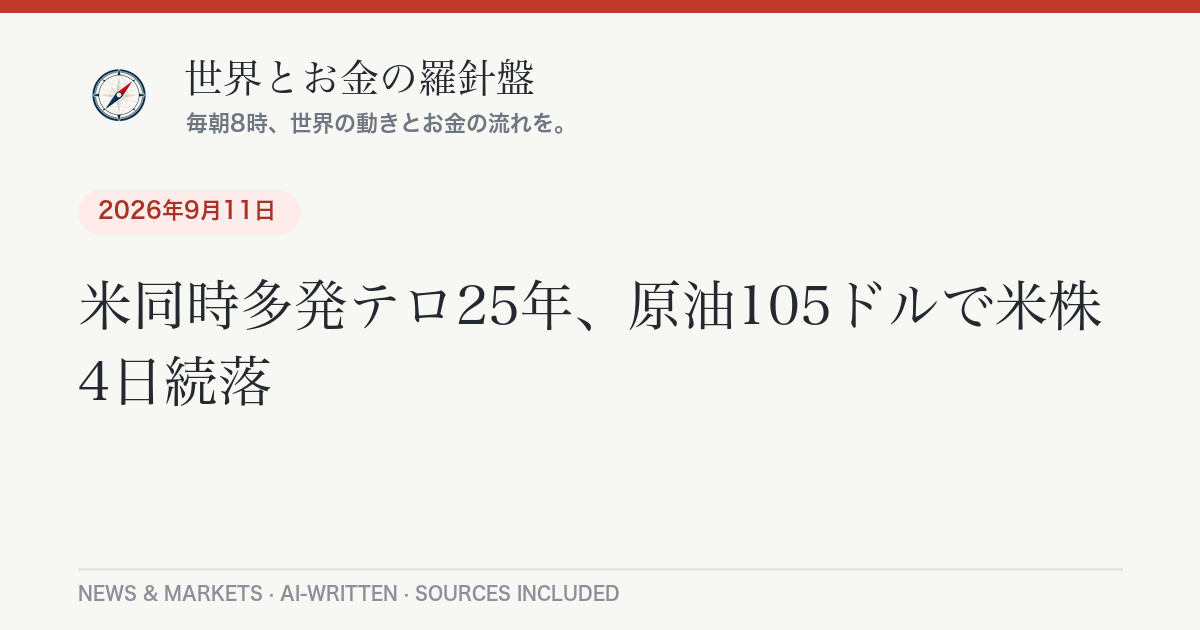
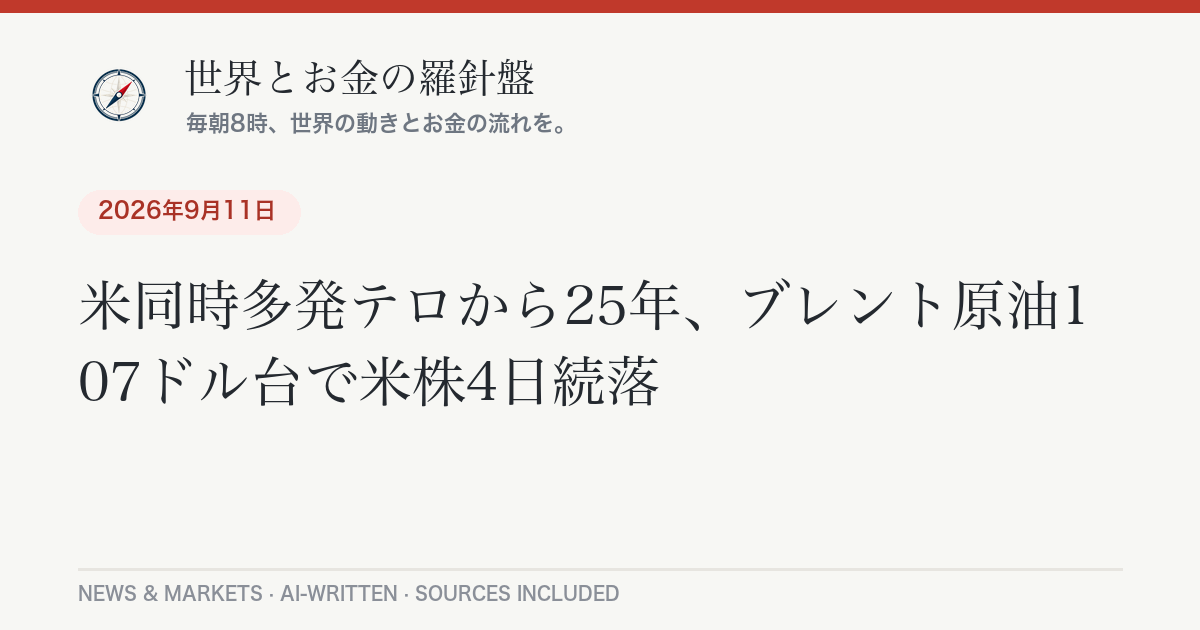
Daily briefing 2026-09-13

Changed region(s): [[0.37, 0.4222, 0.925, 0.5429], [0.0617, 0.573, 0.555, 0.6635]]

diff --git a/_posts/2026-09-13-daily-briefing.md b/_posts/2026-09-13-daily-briefing.md
@@ -1,0 +1,99 @@
+---
+layout: post
+lang: ja
+title: "フーシ派が紅海要衝を制圧、原油一時100ドル超に｜9月13日のニュースとお金"
+date: 2026-09-13 07:39:24 +0900
+categories: [ニュース, 経済]
+headline: "フーシ派が紅海要衝を制圧、原油一時100ドル超に"
+permalink: /2026/09/13/daily-briefing/
+---
+
+## 今日のポイント
+
+イエメンの親イラン武装組織フーシ派が、紅海の出入口にあたるバベルマンデブ海峡沿岸の要衝（モカ港、ペリム島）を相次いで制圧しました。サウジアラビアも主要パイプラインへのドローン攻撃で稼働停止に追い込まれ、原油と欧州天然ガスが急騰しています。これを受けて欧米の中央銀行はインフレ対応を迫られ、来週のFRB（米連邦準備制度理事会）会合への注目も一段と高まっています。
+
+## 今日の羅針盤（Compass Insight）
+
+今日の材料を貫くテーマは「供給の混乱が物価を押し上げ、中央銀行の手を縛る」という構図です。紅海とホルムズ海峡という二つの海上輸送路が同時に不安定化したことで、原油だけでなく欧州の天然ガス価格まで[2023年初来の高値圏](https://parameter.io/european-gas-prices-soar-to-2023-peaks-amid-middle-east-supply-crisis/)に跳ね上がりました。家計への影響で言えば、ガソリン代や電気・ガス代といった「生活コストの上振れ」がまず来る経路です。日本は原油・LNGの多くを輸入に頼るため、円相場の動き次第で輸入コストの上振れがさらに増幅される可能性があります。
+
+短期的には、来週9月15〜16日のFOMC（米連邦公開市場委員会）で利上げに動くかどうかが市場の最大の山場です。中長期では、エネルギー価格の上昇が一時的な供給ショックで終わるのか、中東情勢の長期化によって構造的な高値が定着するのかを見極める段階に入ります。投資判断はあくまで自己責任ですが、エネルギー関連や海運など供給リスクに敏感なセクターの値動きには注目しておきたいところです。
+
+## 今日のニュース
+
+**日本**
+- [令和8年8月千葉豪雨](https://news.web.nhk/newsweb/na/nd-20260824de45950)による死者は13人、浸水被害は4,000棟超に達したと報告されており、避難生活の長期化による健康影響（エコノミークラス症候群の検査など）も課題になっています。
+- 高市早苗首相は党幹部と内閣改造・党役員人事について意見交換を進めており、[9月中下旬をめどに人事を固める](https://www.nikkei.com/article/DGXZQOUA1984N0Z10C26A8000000/)見通しです。
+
+**世界**
+- フーシ派がイエメン紅海沿岸のモカ港に続き、バベルマンデブ海峡の要衝[ペリム島を制圧](https://www.npr.org/2026/09/12/g-s1-143044/yemens-houthis-capture-red-sea-island)したと報じられ、欧州とアジアを結ぶ主要航路の緊張が一段と高まりました。
+- サウジアラビア政府は、ペルシャ湾と紅海を結ぶ「東西パイプライン」が[複数回のドローン攻撃を受け稼働を停止した](https://www.nikkei.com/article/DGXZQOGR117XE0R10C26A9000000/)と発表しました。
+
+**アメリカ**
+- 米国各地で[同時多発テロから25年の追悼式典](https://www.npr.org/sections/national/)が行われ、ニューヨークとペンタゴンで犠牲者を追悼する式典が開かれました。
+- 保守派活動家チャーリー・カーク氏暗殺事件の裁判は、被告タイラー・ロビンソン被告の加重殺人罪での公判が決定し、[次回公判は10月23日](https://www.nbcnews.com/news/us-news/judge-decide-whether-tyler-robinson-will-stand-trial-charlie-kirks-ass-rcna595489)に予定されています。
+
+**ヨーロッパ**
+- 中東情勢の緊迫化を受け、欧州の天然ガス指標TTFは[1メガワット時あたり79.64ユーロまで急伸](https://parameter.io/european-gas-prices-soar-to-2023-peaks-amid-middle-east-supply-crisis/)し、2023年初頭以来の高値圏となりました。
+- ECB（欧州中央銀行）は、エネルギー高に伴うコスト主導型のインフレを主因として25ベーシスポイントの利上げに踏み切ったと報じられています。
+
+## 経済とお金の動き
+
+**世界の市場・原油**
+
+| 指標 | 値 | 前日比・補足 |
+|---|---|---|
+| NYダウ（9/11終値） | [52,573.29](https://www.cnbc.com/2026/09/10/stock-market-today-live-updates.html) | <span class="chg-up">+509.19（+0.98%）</span> |
+| S&P500（9/11終値） | 7,656.98 | <span class="chg-up">+0.86%</span> |
+| ナスダック（9/11終値） | 26,333.04 | <span class="chg-up">+0.96%</span> |
+| ブレント原油（9/11終値） | 105.19ドル/バレル | <span class="chg-down">前日比-2.3%（高値圏からの反落）</span> |
+| WTI原油（9/11終値） | 99.87ドル/バレル | <span class="chg-down">前日比-2.55%</span> |
+
+9月11日は週末の利益確定の動きもあって主要3指数とも反発しましたが、その後にフーシ派の要衝制圧が伝わり、原油は[再び100ドル台に押し戻される](https://www.npr.org/2026/09/12/g-s1-143044/yemens-houthis-capture-red-sea-island)展開になっています。8月の米消費者物価指数（CPI）はコア指数が前月比0.3%上昇と事前予想の0.2%を上回り、[インフレの根強さ](https://www.chase.com/personal/investments/learning-and-insights/article/september-2026-rate-hike-now-expected-amid-energy-shocks)を示しました。
+
+**アメリカの経済**
+
+FRBは[9月15〜16日にFOMCを開催](https://fedratecalc.com/fomc-meeting-schedule/)し、現在3.50〜3.75%の政策金利をどうするか判断します。ジャクソンホールでのウォーシュ議長の発言以降、25ベーシスポイントの利上げを見込む観測が強まり、CME FedWatchでは過半の確率が示されています。エネルギー高と根強いインフレが、7月会合での「様子見」からの路線変更を促した形です。
+
+**日本の経済**
+
+| 指標 | 値 | 前日比 |
+|---|---|---|
+| 日経平均株価（9/11終値） | [64,011.34円](https://www.zaikei.co.jp/article/20260911/869711.html) | <span class="chg-down">-1,259.61円（-1.93%）</span> |
+| ドル円（ECB基準・9/11） | [154.04円](https://api.frankfurter.app/latest?from=USD&to=JPY) | 円高方向で推移 |
+
+[中東情勢の悪化による原油高に加え、米国の利上げ観測や財政拡張への警戒感](https://www.nikkei.com/article/DGXZQOUB110E4TR10C26A9000000/)が重なり、AI・半導体関連株を中心に売りが広がりました。一方で保険・海運株は原油高・地政学リスクの高まりを受けて逆行高となる場面もありました。円相場は9月3日に一時155円台前半まで円高が進む場面があり、日銀の利上げ観測の高まりが背景にあるとされています。原油高が続けば、輸入コスト増の面から日本経済にも追加の逆風となり得ます。
+
+## 今日の注目銘柄・セクター
+
+- **石油・エネルギー関連株**：紅海・ホルムズ海峡の供給リスクを背景に、原油価格の動きに敏感なエネルギー株への関心が高まっています。
+- **海運・タンカー関連**：バベルマンデブ海峡の緊張で航路変更や保険料上昇への警戒感があり、海運セクターの値動きが話題になっています。
+- **欧州ガス・電力関連**：TTF天然ガス価格の急伸を受け、欧州の電力・ユーティリティ関連企業がアジア勢との代替調達競争に注目されています。
+- **輸出関連（日本）**：円高と世界的なリスク回避姿勢から、自動車など輸出関連株に売りが出ています。
+
+*※特定銘柄の売買を推奨するものではありません。投資判断はご自身の責任で。*
+
+## まとめ：注目の3つ
+
+1. フーシ派による紅海要衝の制圧とサウジ東西パイプラインの停止で、原油・天然ガスの供給リスクが一段と高まっている。
+2. 来週9月15〜16日のFOMCでFRBが利上げに動くかどうかが、株式・為替市場の当面の最大の焦点。
+3. 日本は円高・輸出株安という国内要因に、原油高という海外要因が重なりつつあり、家計の負担増にも注意が必要。
+
+---
+<div class="post-sources" markdown="1">
+
+**出典：**
+- [Houthis reportedly advance to key Red Sea island(CNBC)](https://www.cnbc.com/2026/09/11/iran-houthis-mokha-red-sea-yemen.html)
+- [Yemen's Houthis capture a Red Sea island in threat to shipping(NPR)](https://www.npr.org/2026/09/12/g-s1-143044/yemens-houthis-capture-red-sea-island)
+- [迫る「第2のホルムズ海峡危機」 サウジの原油パイプライン稼働停止(日本経済新聞)](https://www.nikkei.com/article/DGXZQOGR117XE0R10C26A9000000/)
+- [European Gas Prices Soar to 2023 Peaks Amid Middle East Supply Crisis(Parameter)](https://parameter.io/european-gas-prices-soar-to-2023-peaks-amid-middle-east-supply-crisis/)
+- [Stock market news for Sept. 11, 2026(CNBC)](https://www.cnbc.com/2026/09/10/stock-market-today-live-updates.html)
+- [日経平均大引け：前日比1259.61円安の64011.34円(財経新聞)](https://www.zaikei.co.jp/article/20260911/869711.html)
+- [日経平均終値1259円安 AI期待打ち消す「トランプ・インフレ」の脅威(日本経済新聞)](https://www.nikkei.com/article/DGXZQOUB110E4TR10C26A9000000/)
+- [内閣改造・自民党人事、9月中下旬が軸(日本経済新聞)](https://www.nikkei.com/article/DGXZQOUA1984N0Z10C26A8000000/)
+- [千葉豪雨 13人死亡 浸水被害4139棟(NHKニュース)](https://news.web.nhk/newsweb/na/nd-20260824de45950)
+- [Will the Fed Hike Rates in September?(Chase)](https://www.chase.com/personal/investments/learning-and-insights/article/september-2026-rate-hike-now-expected-amid-energy-shocks)
+- 市場データ: [frankfurter API](https://api.frankfurter.app/) ／ Yahoo Finance ほか
+
+*本記事は公開情報をもとに作成しています。*
+
+</div>

diff --git a/_posts/2026-09-13-daily-briefing-en.md b/_posts/2026-09-13-daily-briefing-en.md
@@ -1,0 +1,49 @@
+---
+layout: post
+lang: en
+title: "Houthis seize key Red Sea strait as oil tops $100 a barrel — Sept. 13, 2026"
+date: 2026-09-13 07:39:24 +0900
+headline: "Houthis seize key Red Sea strait as oil tops $100 a barrel"
+permalink: /2026/09/13/daily-briefing/
+---
+
+## Top U.S. Stories
+
+- Ceremonies across the United States marked the [25th anniversary of the Sept. 11 terror attacks](https://www.npr.org/sections/national/), with commemorations held in New York and at the Pentagon. *Why it matters:* the anniversary has renewed national attention on political violence and security, a backdrop that has colored much of this week's domestic news cycle.
+- A court ruled that the trial of Tyler Robinson, charged with aggravated murder in the [assassination of conservative activist Charlie Kirk](https://www.nbcnews.com/news/us-news/judge-decide-whether-tyler-robinson-will-stand-trial-charlie-kirks-ass-rcna595489), will proceed, with the next court date set for Oct. 23. *Why it matters:* the case remains a flashpoint in the national debate over rising political violence, and the death penalty is on the table if Robinson is convicted.
+- August Consumer Price Index data showed core inflation rising 0.3% month-over-month, [above the 0.2% consensus forecast](https://www.chase.com/personal/investments/learning-and-insights/article/september-2026-rate-hike-now-expected-amid-energy-shocks). *Why it matters:* it was the last major inflation print before next week's Fed meeting, and it reinforced bets that policymakers will need to act.
+- U.S. stocks rebounded on Friday, Sept. 11, with the [Dow closing up 509.19 points (+0.98%) at 52,573.29](https://www.cnbc.com/2026/09/10/stock-market-today-live-updates.html), the S&P 500 up 0.86% at 7,656.98, and the Nasdaq up 0.96% at 26,333.04, as crude oil retreated from its recent highs.
+- The Federal Reserve's next policy meeting is set for [Sept. 15-16](https://fedratecalc.com/fomc-meeting-schedule/), with markets now leaning toward a 25-basis-point rate hike from the current 3.50%-3.75% target range, a shift driven by energy-linked inflation pressure and Fed Chair Kevin Warsh's Jackson Hole remarks.
+
+## Compass Insight
+
+The thread running through today's news is supply disruption feeding straight into inflation risk. Houthi forces have seized the port of Mokha and the island of Perim, effectively taking control of the Bab el-Mandeb strait, while Saudi Arabia's East-West pipeline was shut down after drone strikes. That one-two punch has kept crude oil anchored near or above $100 a barrel and pushed European natural gas to its highest levels since early 2023. For readers, the near-term read-through is simple: higher energy costs tend to show up first at the gas pump and in utility bills, and they complicate the inflation picture the Fed has to weigh at next week's meeting. In the short term, watch the Sept. 15-16 FOMC decision closely — a hike would signal the central bank sees the energy shock as more than transitory. Over the medium term, the key question is whether Red Sea and Gulf shipping risks stay elevated long enough to become a structural cost rather than a temporary spike. This is not investment advice, but energy, shipping, and utility sectors are worth watching given their direct exposure to these supply dynamics.
+
+## Markets
+
+Oil gave back some gains on Friday (Brent down 2.3% to $105.19, WTI down 2.55% to $99.87) after a sharp run-up, but prices moved back toward the $100 mark once news of the Houthi advance spread. European gas benchmark TTF [surged to €79.64 per megawatt-hour](https://parameter.io/european-gas-prices-soar-to-2023-peaks-amid-middle-east-supply-crisis/), its highest since early 2023, and the ECB has reportedly raised rates by 25 basis points to counter energy-driven inflation. In Japan, the Nikkei 225 fell [1,259.61 points (-1.93%) to close at 64,011.34](https://www.zaikei.co.jp/article/20260911/869711.html) on Sept. 11, weighed down by exporter selling and a stronger yen, which traded near [154.04 per dollar](https://api.frankfurter.app/latest?from=USD&to=JPY).
+
+## Stocks in Focus
+
+- **Energy producers** are drawing attention as crude oil prices stay elevated on Red Sea and Gulf supply risk.
+- **Shipping and tanker operators** are in focus amid concerns over rerouting and higher insurance costs tied to Bab el-Mandeb strait tensions.
+- **European utilities and power generators** are being watched as they compete with Asian buyers for alternative LNG cargoes amid the TTF price spike.
+
+*This is not a recommendation to buy or sell any security. Investment decisions are your own responsibility.*
+
+---
+<div class="post-sources" markdown="1">
+
+**Sources:**
+- [Houthis reportedly advance to key Red Sea island (CNBC)](https://www.cnbc.com/2026/09/11/iran-houthis-mokha-red-sea-yemen.html)
+- [Yemen's Houthis capture a Red Sea island in threat to shipping (NPR)](https://www.npr.org/2026/09/12/g-s1-143044/yemens-houthis-capture-red-sea-island)
+- [European Gas Prices Soar to 2023 Peaks Amid Middle East Supply Crisis (Parameter)](https://parameter.io/european-gas-prices-soar-to-2023-peaks-amid-middle-east-supply-crisis/)
+- [Stock market news for Sept. 11, 2026 (CNBC)](https://www.cnbc.com/2026/09/10/stock-market-today-live-updates.html)
+- [Will the Fed Hike Rates in September? (Chase)](https://www.chase.com/personal/investments/learning-and-insights/article/september-2026-rate-hike-now-expected-amid-energy-shocks)
+- [Next Fed Meeting: Sep 15-16 (FedRateCalc)](https://fedratecalc.com/fomc-meeting-schedule/)
+- [Judge rules Tyler Robinson trial in Charlie Kirk's killing can go forward (NBC News)](https://www.nbcnews.com/news/us-news/judge-decide-whether-tyler-robinson-will-stand-trial-charlie-kirks-ass-rcna595489)
+- Market data: [frankfurter API](https://api.frankfurter.app/), Yahoo Finance
+
+*Auto-generated and AI-written. Not investment advice.*
+
+</div>
